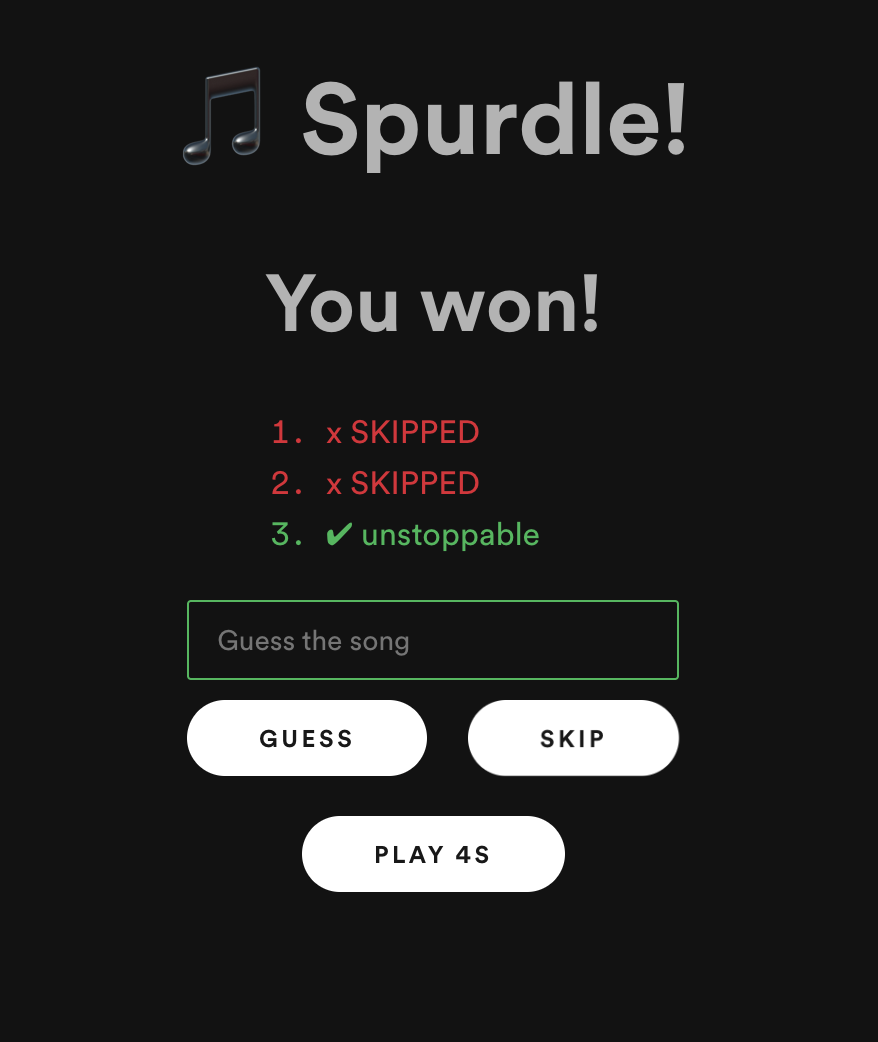
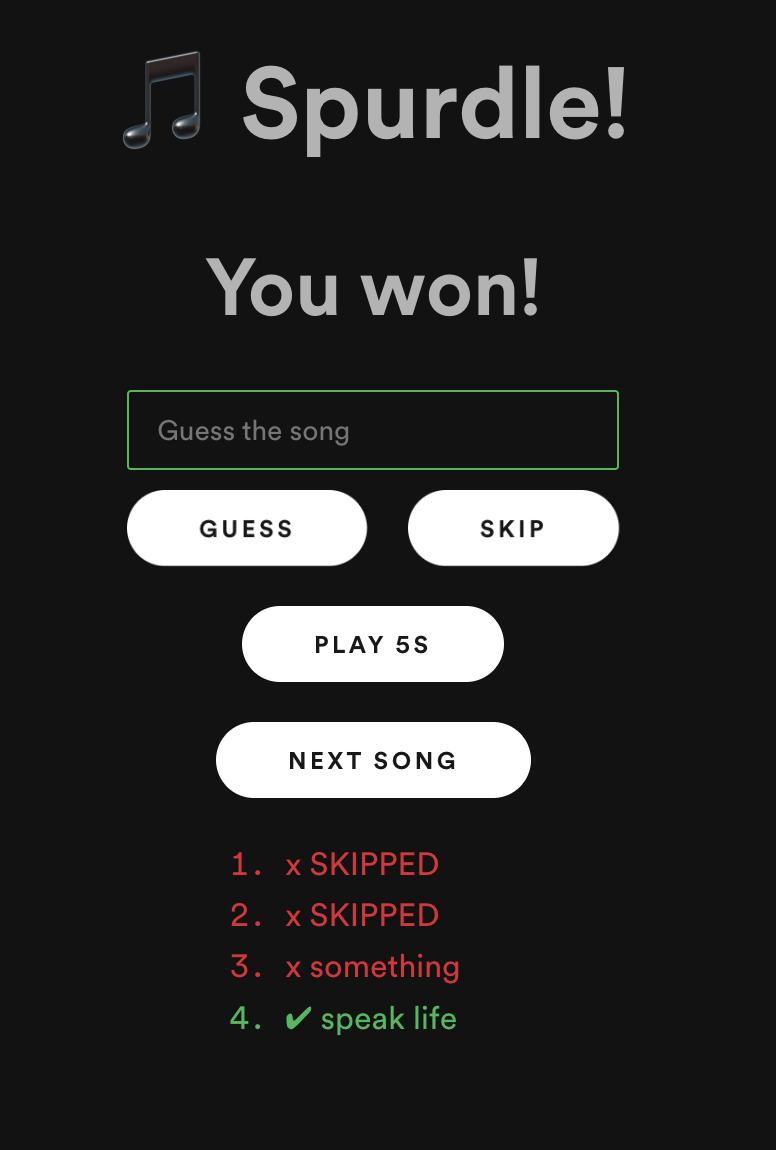
Update dist to output generated at 1461325

Changed region(s): [[0.1546, 0.215, 0.8041, 0.9213], [0.1546, 0.0307, 0.8041, 0.1843], [0.7732, 0.3378, 0.8041, 0.3685]]

diff --git a/index.js b/index.js
@@ -1,1 +1,1 @@
-var spurdle=(()=>{var e,a=Object.create,r=Object.defineProperty,o=Object.getOwnPropertyDescriptor,n=Object.getOwnPropertyNames,i=Object.getPrototypeOf,l=Object.prototype.hasOwnProperty,t=(e=>"undefined"!=typeof require?require:"undefined"!=typeof Proxy?new Proxy(e,{get:(e,t)=>("undefined"!=typeof require?require:e)[t]}):e)(function(e){if("react"===e)return Spicetify.React;if("react-dom"===e)return Spicetify.ReactDOM;if("undefined"!=typeof require)return require.apply(this,arguments);throw new Error('Dynamic require of "'+e+'" is not supported')}),c=(t,s,a,i)=>{if(s&&"object"==typeof s||"function"==typeof s)for(let e of n(s))l.call(t,e)||e===a||r(t,e,{get:()=>s[e],enumerable:!(i=o(s,e))||i.enumerable});return t},s=(e,t,s)=>(s=null!=e?a(i(e)):{},c(!t&&e&&e.__esModule?s:r(s,"default",{value:e,enumerable:!0}),e)),u={},p=u,y={default:()=>function(){return L.default.createElement(D,null)}};for(e in y)r(p,e,{get:y[e],enumerable:!0});var f="app-module__container___thHYo_spurdle",d="app-module__title___jzQAy_spurdle",m="app-module__subtitle___eYtbK_spurdle",g="app-module__input___e4A54_spurdle",h="app-module__guessList___F8WJL_spurdle",S="app-module__formButtonContainer___xNdkD_spurdle",_=s(t("react")),P=s(t("react")),w="app-module__correct___z816V_spurdle",v=e=>{var t=e.won&&e.index===e.guesses.length-1;return P.default.createElement("li",{className:t?w:void 0},t?"✔":"x"," ",e.guesses[e.index]||"SKIPPED")};var b=async e=>{const t=await Spicetify.CosmosAsync.get(`sp://core-playlist/v1/playlist/${e}/rows`,{policy:{link:!0}});return t.rows.map(e=>e.link)},A=(e,t)=>{for(const a of e)if("folder"===a.type&&null!=a.rows){if(a.link===t)return a;var s=A(a.rows,t);if(s)return s}},k=async e=>{var t=await Spicetify.CosmosAsync.get("sp://core-playlist/v1/rootlist",{policy:{folder:{rows:!0,link:!0}}}),t=A(t.rows,e);if(null==t)throw"Cannot find folder";let s=[];const a=e=>{if(e.rows)for(const t of e.rows)"playlist"===t.type?s.push(b(t.link)):"folder"===t.type&&a(t)};return a(t),(await Promise.all(s)).flat()},I=async()=>{const e=await Spicetify.CosmosAsync.get("sp://core-collection/unstable/@/list/tracks/all?responseFormat=protobufJson",{policy:{list:{link:!0}}});return e.item.map(e=>e.trackMetadata.link)},E=async e=>{e=e.split(":")[2];const t=await Spicetify.CosmosAsync.get("https://api.spotify.com/v1/albums/"+e);return t.tracks.items.map(e=>e.uri)},R=async e=>{const t=await Spicetify.CosmosAsync.get(`sp://core-show/v1/shows/${e}?responseFormat=protobufJson`),s=t.items.filter(e=>e.episodePlayState.isPlayable);return s.map(e=>e.episodeMetadata.link)},C=async e=>{const t=await Spicetify.CosmosAsync.get(`https://api-partner.spotify.com/pathfinder/v1/query?operationName=queryArtistOverview&variables=%7B%22uri%22%3A%22${e}%22%7D&extensions=%7B%22persistedQuery%22%3A%7B%22version%22%3A1%2C%22sha256Hash%22%3A%22433e28d1e949372d3ca3aa6c47975cff428b5dc37b12f5325d9213accadf770a%22%7D%7D`);return t.data.artist.discography.topTracks.items.map(e=>e.track.uri)};function T(e){let t=e.length;if(t<=1)return e;for(var s=e[0];0<t;){var a=Math.floor(Math.random()*t),i=e[--t];e[t]=e[a],e[a]=i}for(;e[0]===s;)e=T(e);return e}var U=e=>`Shuffled ${e} items!`;async function x(e,t){var s;if("playedstation"!==e[0]){var a=e.length;if(0===a)throw"There is no available track to play";if(1===a)Spicetify.Platform.PlayerAPI.play({uri:e[0]},{featureVersion:Spicetify.Platform.PlayerAPI._defaultFeatureVersion});else{e.push("spotify:delimiter"),Spicetify.Platform.PlayerAPI.clearQueue();const i=!t;await Spicetify.CosmosAsync.put("sp://player/v2/main/queue",{queue_revision:null==(s=Spicetify.Queue)?void 0:s.queueRevision,next_tracks:e.map(e=>({uri:e,provider:i?"queue":"context",metadata:{is_queued:i}})),prev_tracks:null==(s=Spicetify.Queue)?void 0:s.prevTracks}),i||await Spicetify.CosmosAsync.post("sp://player/v2/main/update",{context:{uri:t,url:"context://"+t}}),Spicetify.showNotification(U(a)),Spicetify.Player.next()}}}function N(t){!async function(e){const t=Spicetify.URI.fromString(e);switch(t.type){case Spicetify.URI.Type.SHOW:return R(t.getBase62Id());case Spicetify.URI.Type.PLAYLIST:case Spicetify.URI.Type.PLAYLIST_V2:return b(e);case Spicetify.URI.Type.FOLDER:return k(e);case Spicetify.URI.Type.ALBUM:return E(e);case Spicetify.URI.Type.COLLECTION:return I();case Spicetify.URI.Type.ARTIST:return C(e);case Spicetify.URI.Type.TRACK:case Spicetify.URI.Type.EPISODE:return[e];case Spicetify.URI.Type.STATION:case Spicetify.URI.Type.RADIO:return Spicetify.Platform.PlayerAPI.play({uri:e},{featureVersion:Spicetify.Platform.PlayerAPI._defaultFeatureVersion}),["playedstation"]}throw"Unsupported fetching URI type: "+t.type}(t).then(e=>x(T(e),t)).catch(e=>Spicetify.showNotification(e))}var O=t=>{[document.querySelector(".main-nowPlayingWidget-nowPlaying"),document.querySelector(".player-controls__buttons")].forEach(e=>{e&&(e.style.opacity=t?"1":"0",e.style.pointerEvents=t?"auto":"none")});const e=document.querySelector(".playback-bar");e&&(e.style.pointerEvents=t?"auto":"none")},q=e=>e.trim().replace(/[^a-zA-Z0-9]/g,"").toLowerCase(),D=class extends _.default.Component{constructor(e){super(e),this.state={stage:0,timeAllowed:1,guess:"",guesses:[],won:!1},this.playClick=()=>{{var e;const a=1e3*this.state.timeAllowed,i=Spicetify.Player.getDuration();if(!(a>i)){Spicetify.Player.seek(0),Spicetify.Player.play();let s=0;const r=e=>{if(s)return console.log("debouncing"),void(500<e.timeStamp-s&&(s=0,console.log("reset debouncing")));var t=i*Spicetify.Player.getProgressPercent();console.log({currentProgress:t,endMilliseconds:a}),t>a&&(s=e.timeStamp,Spicetify.Player.pause(),console.log("stopping"),Spicetify.Player.removeEventListener("onprogress",r))};Spicetify.Player.addEventListener("onprogress",r)}return}},this.guessChange=e=>this.setState({guess:e.target.value}),this.skipGuess=e=>{e.preventDefault(),this.setState({guesses:[...this.state.guesses,null],guess:"",stage:this.state.stage+1,timeAllowed:this.state.timeAllowed+1,won:!1})},this.submitGuess=e=>{e.preventDefault(),0!==this.state.guess.trim().length&&(e=this.state.guess,console.log({guess:e}),console.log("title: "+Spicetify.Player.data.track.metadata.title),console.log("artist_name: "+Spicetify.Player.data.track.metadata.artist_name),console.log("album_artist_name: "+Spicetify.Player.data.track.metadata.album_artist_name),(e=q(e)===q(Spicetify.Player.data.track.metadata.title))&&O(!0),this.setState({guesses:[...this.state.guesses,this.state.guess],guess:"",stage:this.state.stage+1,timeAllowed:this.state.timeAllowed+1,won:e}))},this.nextSong=()=>{O(!1),Spicetify.Player.next(),Spicetify.Player.seek(0),Spicetify.Player.pause(),this.setState({guesses:[],guess:"",stage:0,timeAllowed:1,won:!1})},this.URIs=Spicetify.Platform.History.location.state.URIs}componentDidMount(){console.log("App mounted, URIs: ",this.URIs);var e=this.URIs;if(e)if(1===e.length)N(e[0]);else{x(T(e),null);try{Spicetify.Player.pause()}catch(e){console.log("Error pausing player:",e)}Spicetify.Player.seek(0)}}render(){return _.default.createElement(_.default.Fragment,null,_.default.createElement("div",{className:f},_.default.createElement("h1",{className:d},"🎵 Spurdle!"),this.state.won?_.default.createElement("h2",{className:m},"You won!"):null,_.default.createElement("form",{id:"guessForm",onSubmit:this.submitGuess},_.default.createElement("input",{type:"text",className:g,placeholder:"Guess the song",value:this.state.guess,onChange:this.guessChange}),_.default.createElement("div",{className:S},_.default.createElement("button",{type:"submit",className:"main-buttons-button main-button-secondary"},"Guess"),_.default.createElement("button",{className:"main-buttons-button main-button-secondary",onClick:this.skipGuess},"Skip"))),_.default.createElement("button",{className:"main-buttons-button main-button-secondary",onClick:this.playClick},`Play ${this.state.timeAllowed}s`),_.default.createElement("button",{className:"main-buttons-button main-button-secondary",onClick:this.nextSong},"Next song"),_.default.createElement("ol",{className:h},this.state.guesses.map((e,t)=>_.default.createElement(v,{key:t,index:t,guesses:this.state.guesses,won:this.state.won})))))}},L=s(t("react"));return s=u,c(r({},"__esModule",{value:!0}),s)})();const render=()=>spurdle.default();
+var spurdle=(()=>{var e,a=Object.create,r=Object.defineProperty,o=Object.getOwnPropertyDescriptor,n=Object.getOwnPropertyNames,i=Object.getPrototypeOf,l=Object.prototype.hasOwnProperty,t=(e=>"undefined"!=typeof require?require:"undefined"!=typeof Proxy?new Proxy(e,{get:(e,t)=>("undefined"!=typeof require?require:e)[t]}):e)(function(e){if("react"===e)return Spicetify.React;if("react-dom"===e)return Spicetify.ReactDOM;if("undefined"!=typeof require)return require.apply(this,arguments);throw new Error('Dynamic require of "'+e+'" is not supported')}),u=(t,s,a,i)=>{if(s&&"object"==typeof s||"function"==typeof s)for(let e of n(s))l.call(t,e)||e===a||r(t,e,{get:()=>s[e],enumerable:!(i=o(s,e))||i.enumerable});return t},s=(e,t,s)=>(s=null!=e?a(i(e)):{},u(!t&&e&&e.__esModule?s:r(s,"default",{value:e,enumerable:!0}),e)),c={},p=c,y={default:()=>function(){return L.default.createElement(D,null)}};for(e in y)r(p,e,{get:y[e],enumerable:!0});var f="app-module__container___thHYo_spurdle",d="app-module__title___jzQAy_spurdle",m="app-module__subtitle___eYtbK_spurdle",g="app-module__input___e4A54_spurdle",h="app-module__guessList___F8WJL_spurdle",S="app-module__formButtonContainer___xNdkD_spurdle",_=s(t("react")),P=s(t("react")),w="app-module__correct___z816V_spurdle",v=e=>{var t=e.won&&e.index===e.guesses.length-1;return P.default.createElement("li",{className:t?w:void 0},t?"✔":"x"," ",e.guesses[e.index]||"SKIPPED")};var b=async e=>{const t=await Spicetify.CosmosAsync.get(`sp://core-playlist/v1/playlist/${e}/rows`,{policy:{link:!0}});return t.rows.map(e=>e.link)},A=(e,t)=>{for(const a of e)if("folder"===a.type&&null!=a.rows){if(a.link===t)return a;var s=A(a.rows,t);if(s)return s}},k=async e=>{var t=await Spicetify.CosmosAsync.get("sp://core-playlist/v1/rootlist",{policy:{folder:{rows:!0,link:!0}}}),t=A(t.rows,e);if(null==t)throw"Cannot find folder";let s=[];const a=e=>{if(e.rows)for(const t of e.rows)"playlist"===t.type?s.push(b(t.link)):"folder"===t.type&&a(t)};return a(t),(await Promise.all(s)).flat()},I=async()=>{const e=await Spicetify.CosmosAsync.get("sp://core-collection/unstable/@/list/tracks/all?responseFormat=protobufJson",{policy:{list:{link:!0}}});return e.item.map(e=>e.trackMetadata.link)},E=async e=>{e=e.split(":")[2];const t=await Spicetify.CosmosAsync.get("https://api.spotify.com/v1/albums/"+e);return t.tracks.items.map(e=>e.uri)},R=async e=>{const t=await Spicetify.CosmosAsync.get(`sp://core-show/v1/shows/${e}?responseFormat=protobufJson`),s=t.items.filter(e=>e.episodePlayState.isPlayable);return s.map(e=>e.episodeMetadata.link)},C=async e=>{const t=await Spicetify.CosmosAsync.get(`https://api-partner.spotify.com/pathfinder/v1/query?operationName=queryArtistOverview&variables=%7B%22uri%22%3A%22${e}%22%7D&extensions=%7B%22persistedQuery%22%3A%7B%22version%22%3A1%2C%22sha256Hash%22%3A%22433e28d1e949372d3ca3aa6c47975cff428b5dc37b12f5325d9213accadf770a%22%7D%7D`);return t.data.artist.discography.topTracks.items.map(e=>e.track.uri)};function T(e){let t=e.length;if(t<=1)return e;for(var s=e[0];0<t;){var a=Math.floor(Math.random()*t),i=e[--t];e[t]=e[a],e[a]=i}for(;e[0]===s;)e=T(e);return e}var U=e=>`Shuffled ${e} items!`;async function x(e,t){var s;if("playedstation"!==e[0]){var a=e.length;if(0===a)throw"There is no available track to play";if(1===a)Spicetify.Platform.PlayerAPI.play({uri:e[0]},{featureVersion:Spicetify.Platform.PlayerAPI._defaultFeatureVersion});else{e.push("spotify:delimiter"),Spicetify.Platform.PlayerAPI.clearQueue();const i=!t;await Spicetify.CosmosAsync.put("sp://player/v2/main/queue",{queue_revision:null==(s=Spicetify.Queue)?void 0:s.queueRevision,next_tracks:e.map(e=>({uri:e,provider:i?"queue":"context",metadata:{is_queued:i}})),prev_tracks:null==(s=Spicetify.Queue)?void 0:s.prevTracks}),i||await Spicetify.CosmosAsync.post("sp://player/v2/main/update",{context:{uri:t,url:"context://"+t}}),Spicetify.showNotification(U(a)),Spicetify.Player.next()}}}function N(t){!async function(e){const t=Spicetify.URI.fromString(e);switch(t.type){case Spicetify.URI.Type.SHOW:return R(t.getBase62Id());case Spicetify.URI.Type.PLAYLIST:case Spicetify.URI.Type.PLAYLIST_V2:return b(e);case Spicetify.URI.Type.FOLDER:return k(e);case Spicetify.URI.Type.ALBUM:return E(e);case Spicetify.URI.Type.COLLECTION:return I();case Spicetify.URI.Type.ARTIST:return C(e);case Spicetify.URI.Type.TRACK:case Spicetify.URI.Type.EPISODE:return[e];case Spicetify.URI.Type.STATION:case Spicetify.URI.Type.RADIO:return Spicetify.Platform.PlayerAPI.play({uri:e},{featureVersion:Spicetify.Platform.PlayerAPI._defaultFeatureVersion}),["playedstation"]}throw"Unsupported fetching URI type: "+t.type}(t).then(e=>x(T(e),t)).catch(e=>Spicetify.showNotification(e))}var O=t=>{[document.querySelector(".main-nowPlayingWidget-nowPlaying"),document.querySelector(".player-controls__buttons")].forEach(e=>{e&&(e.style.opacity=t?"1":"0",e.style.pointerEvents=t?"auto":"none")});const e=document.querySelector(".playback-bar");e&&(e.style.pointerEvents=t?"auto":"none")},q=e=>e.trim().replace(/[^a-zA-Z0-9]/g,"").toLowerCase(),D=class extends _.default.Component{constructor(e){super(e),this.state={stage:0,timeAllowed:1,guess:"",guesses:[],won:!1},this.playClick=()=>{{var e;const a=1e3*this.state.timeAllowed,i=Spicetify.Player.getDuration();if(!(a>i)){Spicetify.Player.seek(0),Spicetify.Player.play();let s=0;const r=e=>{if(s)return console.log("debouncing"),void(500<e.timeStamp-s&&(s=0,console.log("reset debouncing")));var t=i*Spicetify.Player.getProgressPercent();console.log({currentProgress:t,endMilliseconds:a}),t>a&&(s=e.timeStamp,Spicetify.Player.pause(),console.log("stopping"),Spicetify.Player.removeEventListener("onprogress",r))};Spicetify.Player.addEventListener("onprogress",r)}return}},this.guessChange=e=>this.setState({guess:e.target.value}),this.skipGuess=e=>{e.preventDefault(),this.setState({guesses:[...this.state.guesses,null],guess:"",stage:this.state.stage+1,timeAllowed:this.state.timeAllowed+1,won:!1})},this.submitGuess=e=>{e.preventDefault(),0!==this.state.guess.trim().length&&(e=this.state.guess,console.log({guess:e}),console.log("title: "+Spicetify.Player.data.track.metadata.title),console.log("artist_name: "+Spicetify.Player.data.track.metadata.artist_name),console.log("album_artist_name: "+Spicetify.Player.data.track.metadata.album_artist_name),(e=q(e)===q(Spicetify.Player.data.track.metadata.title))&&O(!0),this.setState({guesses:[...this.state.guesses,this.state.guess],guess:"",stage:this.state.stage+1,timeAllowed:this.state.timeAllowed+1,won:e}))},this.nextSong=()=>{O(!1),Spicetify.Player.next(),Spicetify.Player.seek(0),Spicetify.Player.pause(),this.setState({guesses:[],guess:"",stage:0,timeAllowed:1,won:!1})},this.URIs=Spicetify.Platform.History.location.state.URIs}componentDidMount(){console.log("App mounted, URIs: ",this.URIs);var e=this.URIs;if(e)if(1===e.length)N(e[0]);else{x(T(e),null);try{Spicetify.Player.pause()}catch(e){console.log("Error pausing player:",e)}Spicetify.Player.seek(0)}}render(){return _.default.createElement(_.default.Fragment,null,_.default.createElement("div",{className:f},_.default.createElement("h1",{className:d},"🎵 Spurdle!"),this.state.won?_.default.createElement("h2",{className:m},"You won!"):null,_.default.createElement("form",{id:"guessForm",onSubmit:this.submitGuess},_.default.createElement("input",{type:"text",className:g,placeholder:"Guess the song",value:this.state.guess,onChange:this.guessChange}),_.default.createElement("div",{className:S},_.default.createElement("button",{type:"submit",className:"main-buttons-button main-button-secondary"},"Guess"),_.default.createElement("button",{className:"main-buttons-button main-button-secondary",onClick:this.skipGuess},"Skip"))),this.state.won?null:_.default.createElement("button",{className:"main-buttons-button main-button-secondary",onClick:this.playClick},`Play ${this.state.timeAllowed}s`),_.default.createElement("button",{className:"main-buttons-button main-button-secondary",onClick:this.nextSong},"Next song"),_.default.createElement("ol",{className:h},this.state.guesses.map((e,t)=>_.default.createElement(v,{key:t,index:t,guesses:this.state.guesses,won:this.state.won})))))}},L=s(t("react"));return s=c,u(r({},"__esModule",{value:!0}),s)})();const render=()=>spurdle.default();
